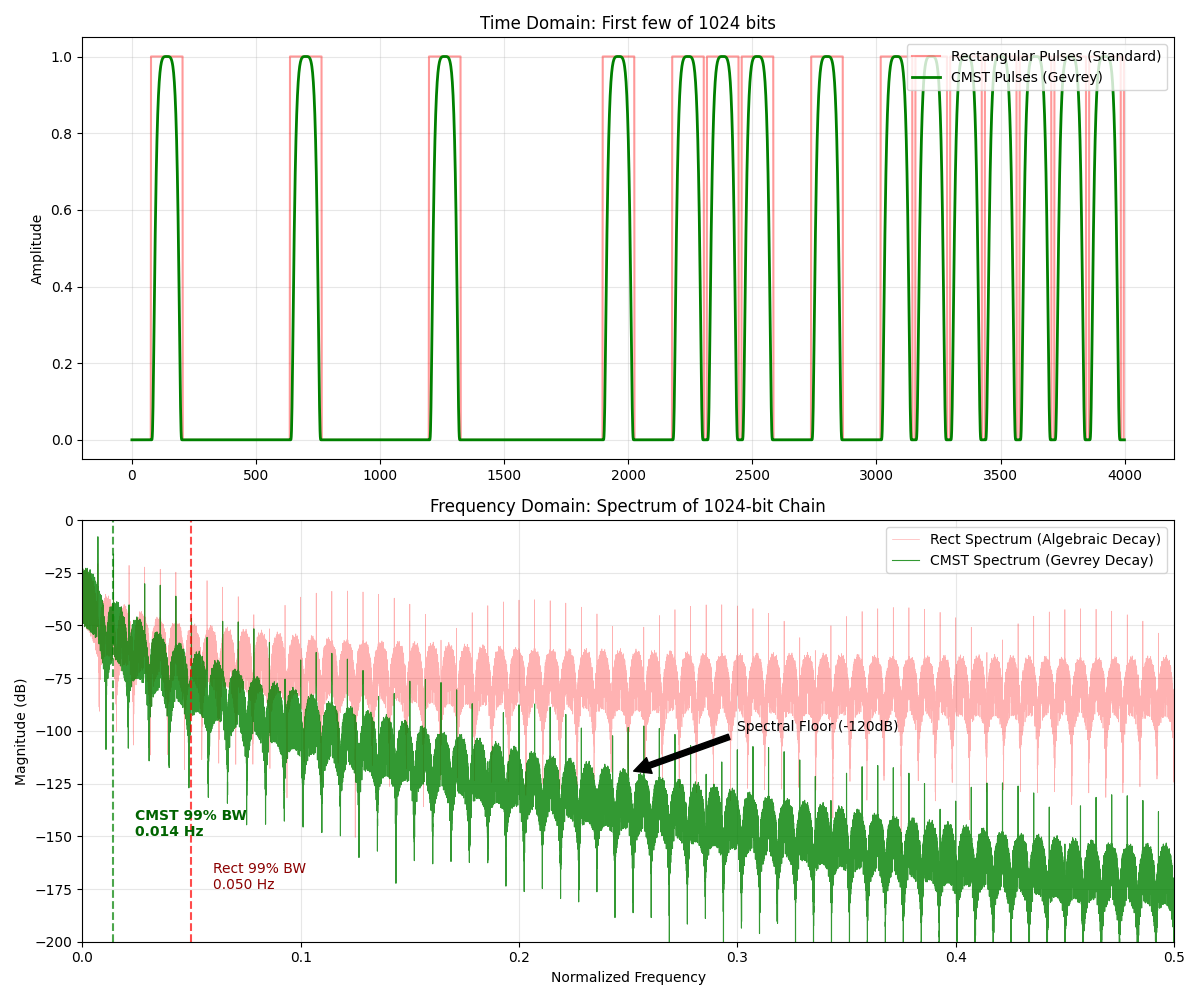
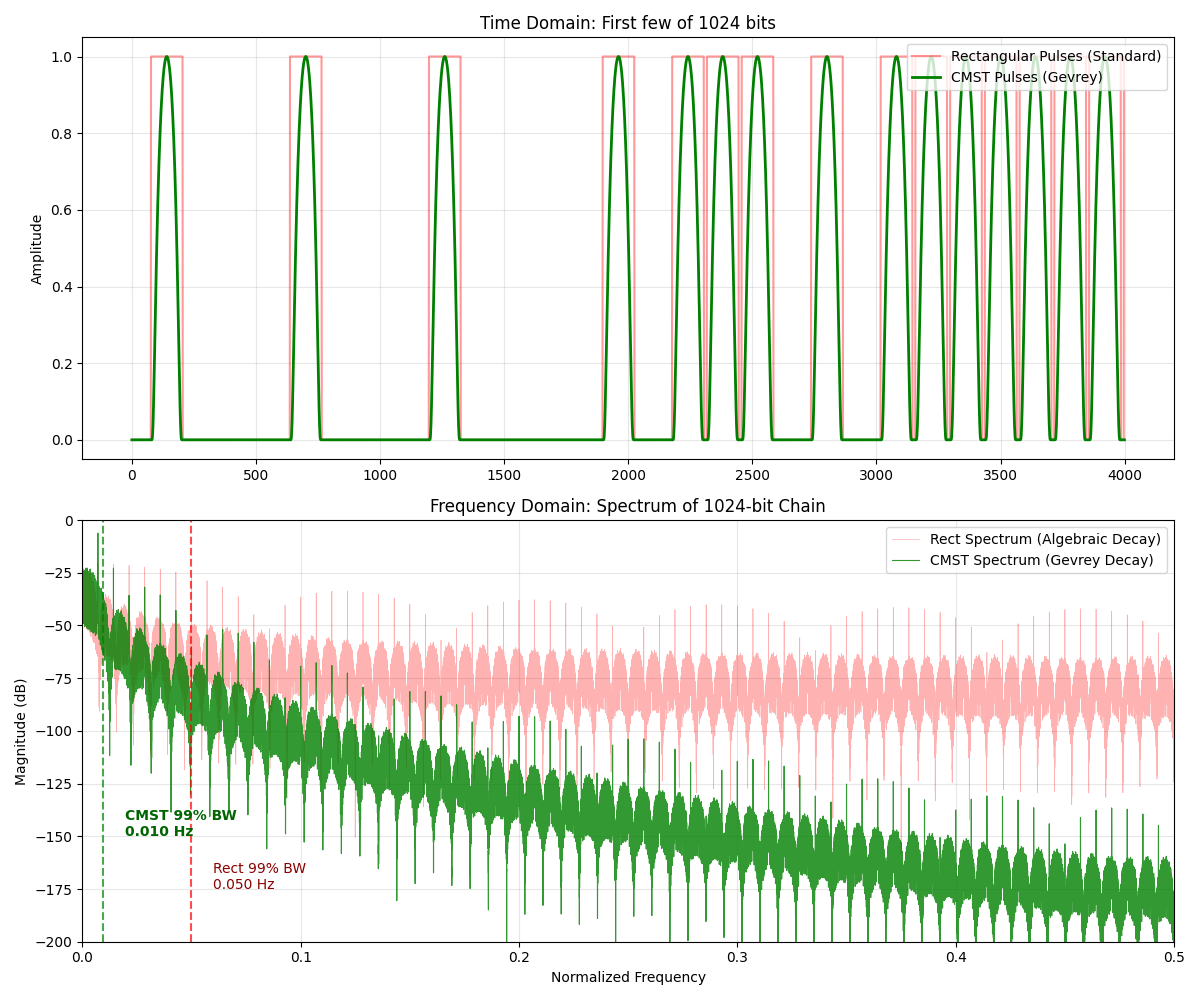
Moved to standard bump

diff --git a/examples/16_cmst_as_pulse.py b/examples/16_cmst_as_pulse.py
@@ -50,10 +50,10 @@ def generate_pulse_demo():
     kernel_rect = np.ones_like(t)
     
     # Shape B: CMST(2) 
-    # Formula: exp(1 + t^2 + 1/(t^2-1))
+    # standard bump is best.
     k = 1
     with np.errstate(divide='ignore', invalid='ignore'):
-        val = 1 + t**(2*k) + 1/(t**(2*k) - 1)
+        val = 1 + 1/(t**(2*k) - 1)
         kernel_cmst = np.exp(val)
     kernel_cmst[np.abs(t) >= 1] = 0
     
@@ -98,10 +98,6 @@ def generate_pulse_demo():
     # Freq Domain (Full Chain Analysis)
     ax2.plot(freqs, spec_rect, 'r', alpha=0.3, linewidth=0.5, label='Rect Spectrum (Algebraic Decay)')
     ax2.plot(freqs, spec_cmst, 'g', alpha=0.8, linewidth=0.8, label='CMST Spectrum (Gevrey Decay)')
-    
-    # Add an annotation arrow
-    ax2.annotate('Spectral Floor (-120dB)', xy=(0.25, -120), xytext=(0.3, -100),
-                 arrowprops=dict(facecolor='black', shrink=0.05))
 
     ax2.axvline(bw_cmst, color='green', linestyle='--', alpha=0.7)
     ax2.text(bw_cmst + 0.01, -150, f'CMST 99% BW\n{bw_cmst:.3f} Hz', color='darkgreen', fontweight='bold')
